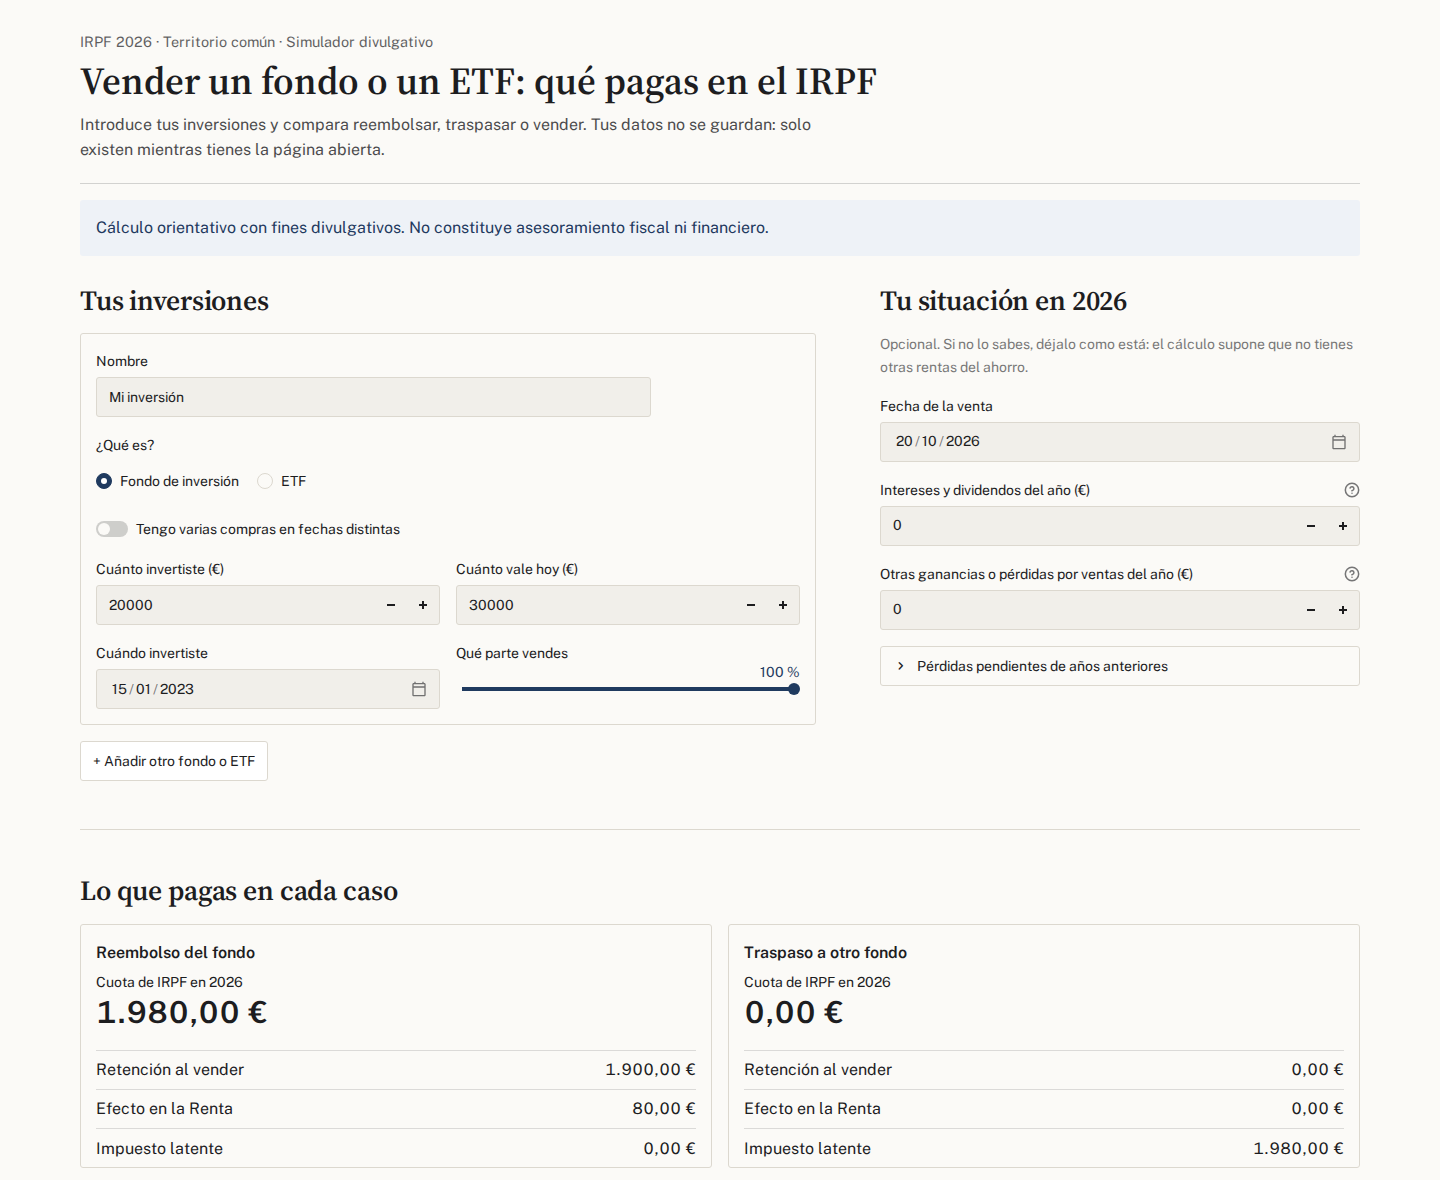
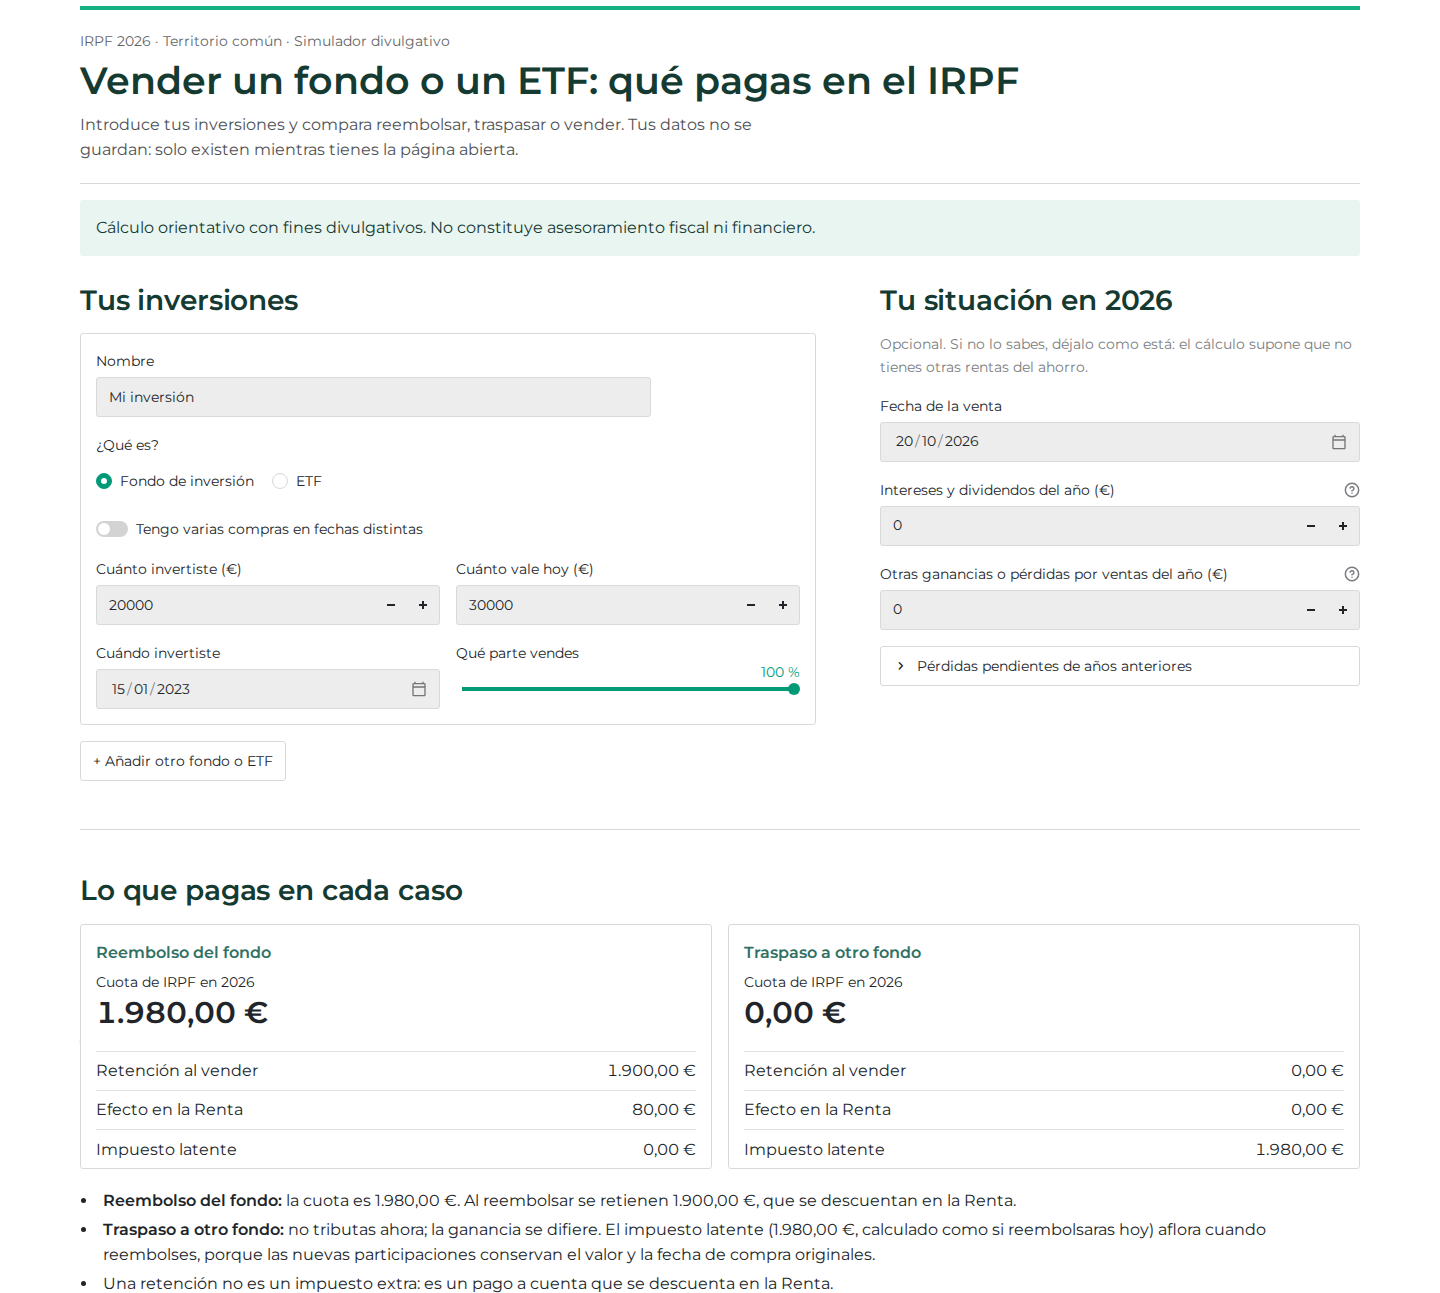
Aplica Montserrat y la paleta de verdes de la web de referencia

diff --git a/app.py b/app.py
@@ -490,20 +490,22 @@ def mostrar_visualizacion(posiciones: list[Posicion], planes: list[PlanMostrado]
 
 # --- Página ---------------------------------------------------------------------------------------
 
-# Sin colores fijos: bordes y textos secundarios salen del color del texto del tema activo
-# (currentColor), así que sirven igual en modo claro y oscuro. Los colores están en
-# .streamlit/config.toml.
+# Los bordes y textos secundarios salen del color del texto del tema activo (currentColor).
+# Donde hace falta un color propio, light-dark(claro, oscuro) lo elige según el modo: Streamlit
+# declara color-scheme en .stApp. El resto de colores están en .streamlit/config.toml.
 ESTILOS = """
 <style>
 .cabecera {
-    padding: 0.5rem 0 1.25rem;
+    border-top: 4px solid #16b182;
+    padding: 1.25rem 0 1.25rem;
     margin-bottom: 1rem;
     border-bottom: 1px solid color-mix(in srgb, currentColor 18%, transparent);
 }
 .cabecera .contexto { font-size: 0.9rem; opacity: 0.7; }
 .cabecera h1 { font-size: 2.4rem; line-height: 1.15; margin: 0.4rem 0 0.5rem; padding: 0; }
 .cabecera p { opacity: 0.8; margin: 0; max-width: 46rem; }
-.titulo-plan { font-weight: 600; margin-bottom: 0.25rem; }
+.stApp h1, .stApp h2, .stApp h3 { color: light-dark(#153a31, #e9efed); }
+.titulo-plan { font-weight: 600; margin-bottom: 0.25rem; color: light-dark(#307163, #16b182); }
 [data-testid="stMetricValue"] { font-variant-numeric: tabular-nums; }
 .cifras .fila {
     display: flex;

diff --git a/simulador/graficos.py b/simulador/graficos.py
@@ -30,13 +30,13 @@ from simulador.rentabilidad import Rentabilidad
 
 # Estética de los gráficos de la app. El fondo, el texto y la rejilla los pone Streamlit según
 # el modo claro u oscuro del visitante; aquí solo van los colores de las series, validados
-# con la skill dataviz en los dos modos (fondos #fbfaf7 y #16181c, todas las parejas):
+# con la skill dataviz en los dos modos (fondos #ffffff y #10201c, todas las parejas):
 # banda de luminosidad, croma, separación con daltonismo (ΔE ≥ 8) y contraste ≥ 3:1.
 COLOR_RETENCION = "#c8553d"  # teja: impuestos
-COLOR_RENTA = "#2a9d8f"  # verde azulado: ganancias y valor actual
+COLOR_RENTA = "#009a77"  # verde: ganancias y valor actual
 COLOR_APLAZADO = "#3d6fb0"  # azul: totales y lo invertido
 COLOR_CONECTORES = "rgba(128, 128, 128, 0.5)"  # gris semitransparente: se ve en los dos modos
-FUENTE = "Public Sans, Helvetica, Arial, sans-serif"
+FUENTE = "Montserrat, Helvetica, Arial, sans-serif"
 
 # Estética del gráfico de LinkedIn: informe analítico sobre blanco, apaisado. Colores validados
 # con la skill dataviz en modo claro sobre blanco (todas las parejas, sin avisos).
